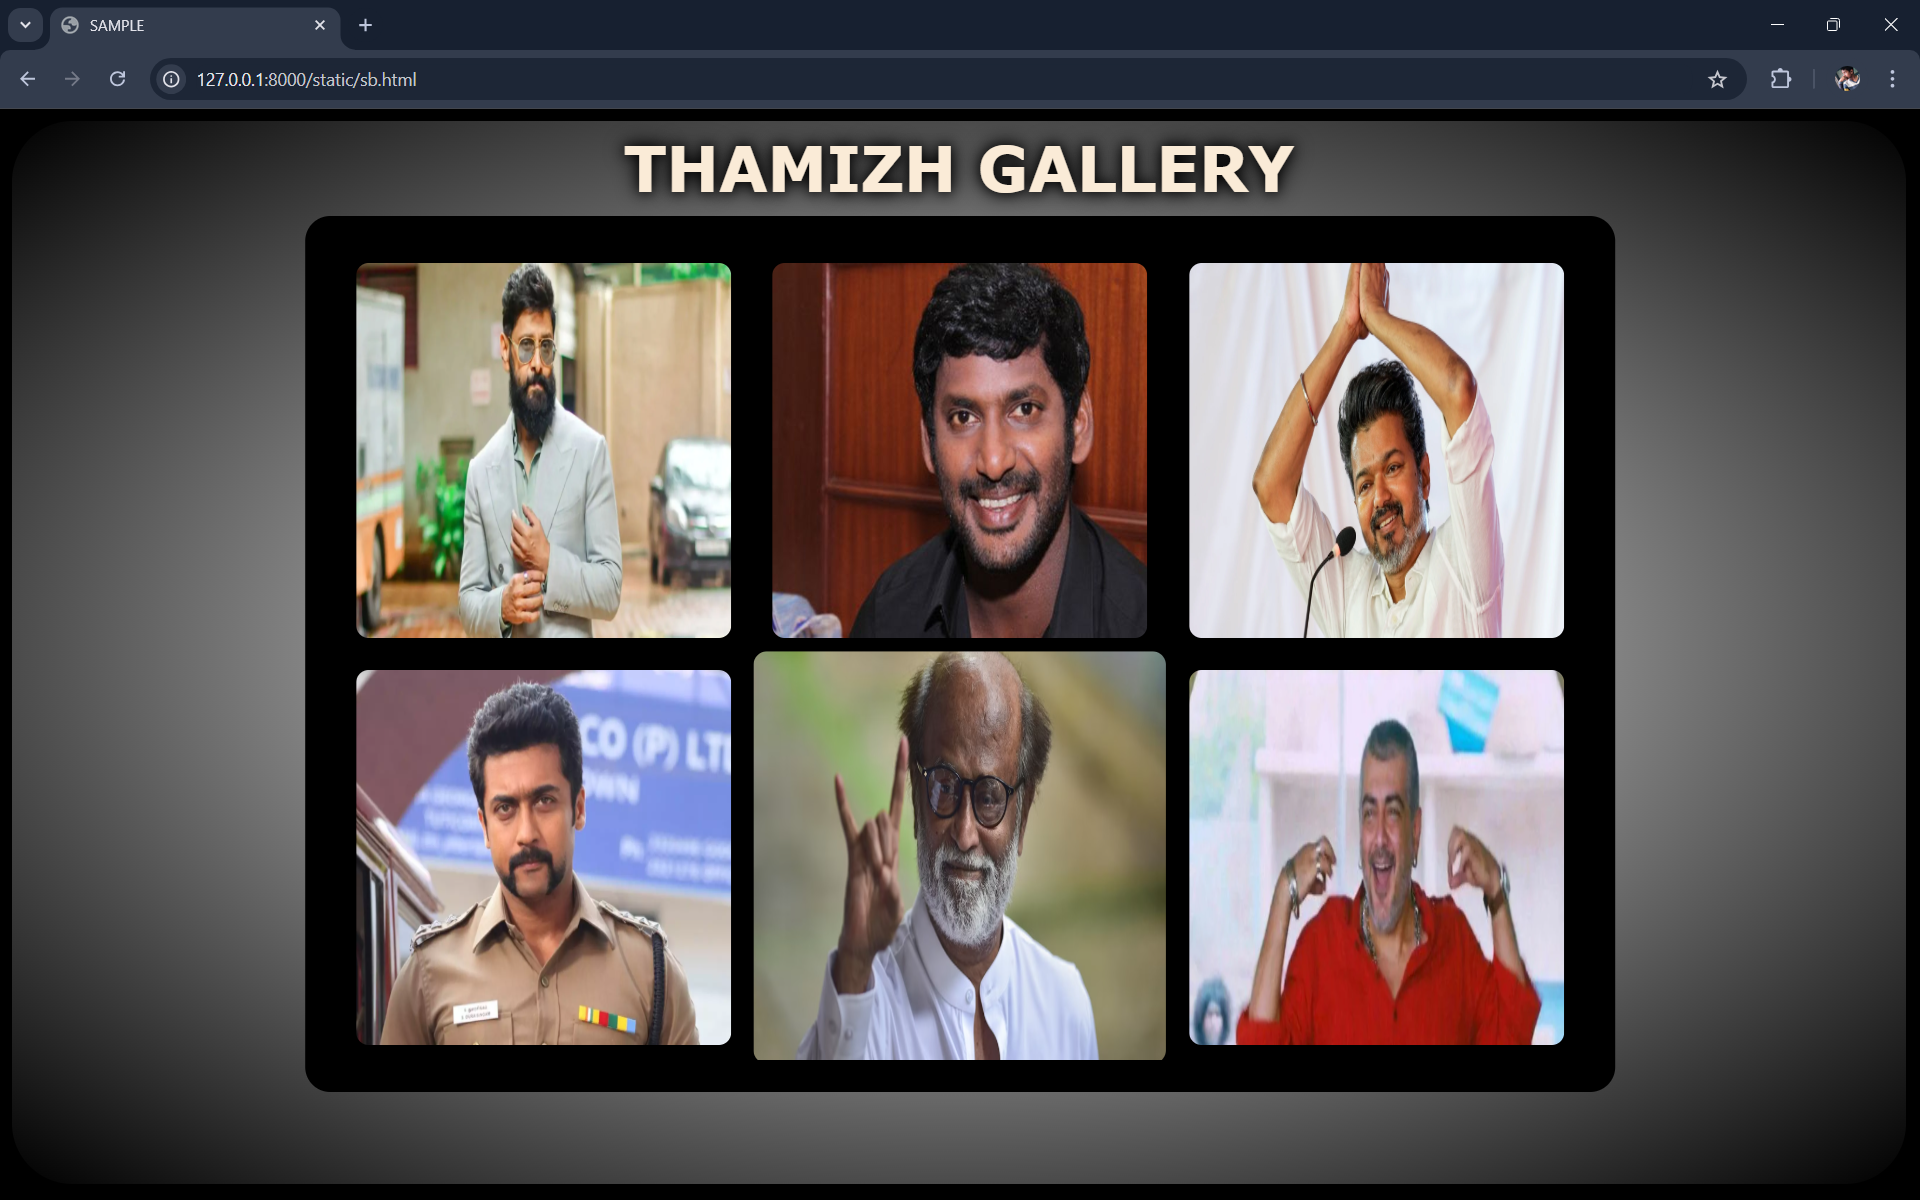
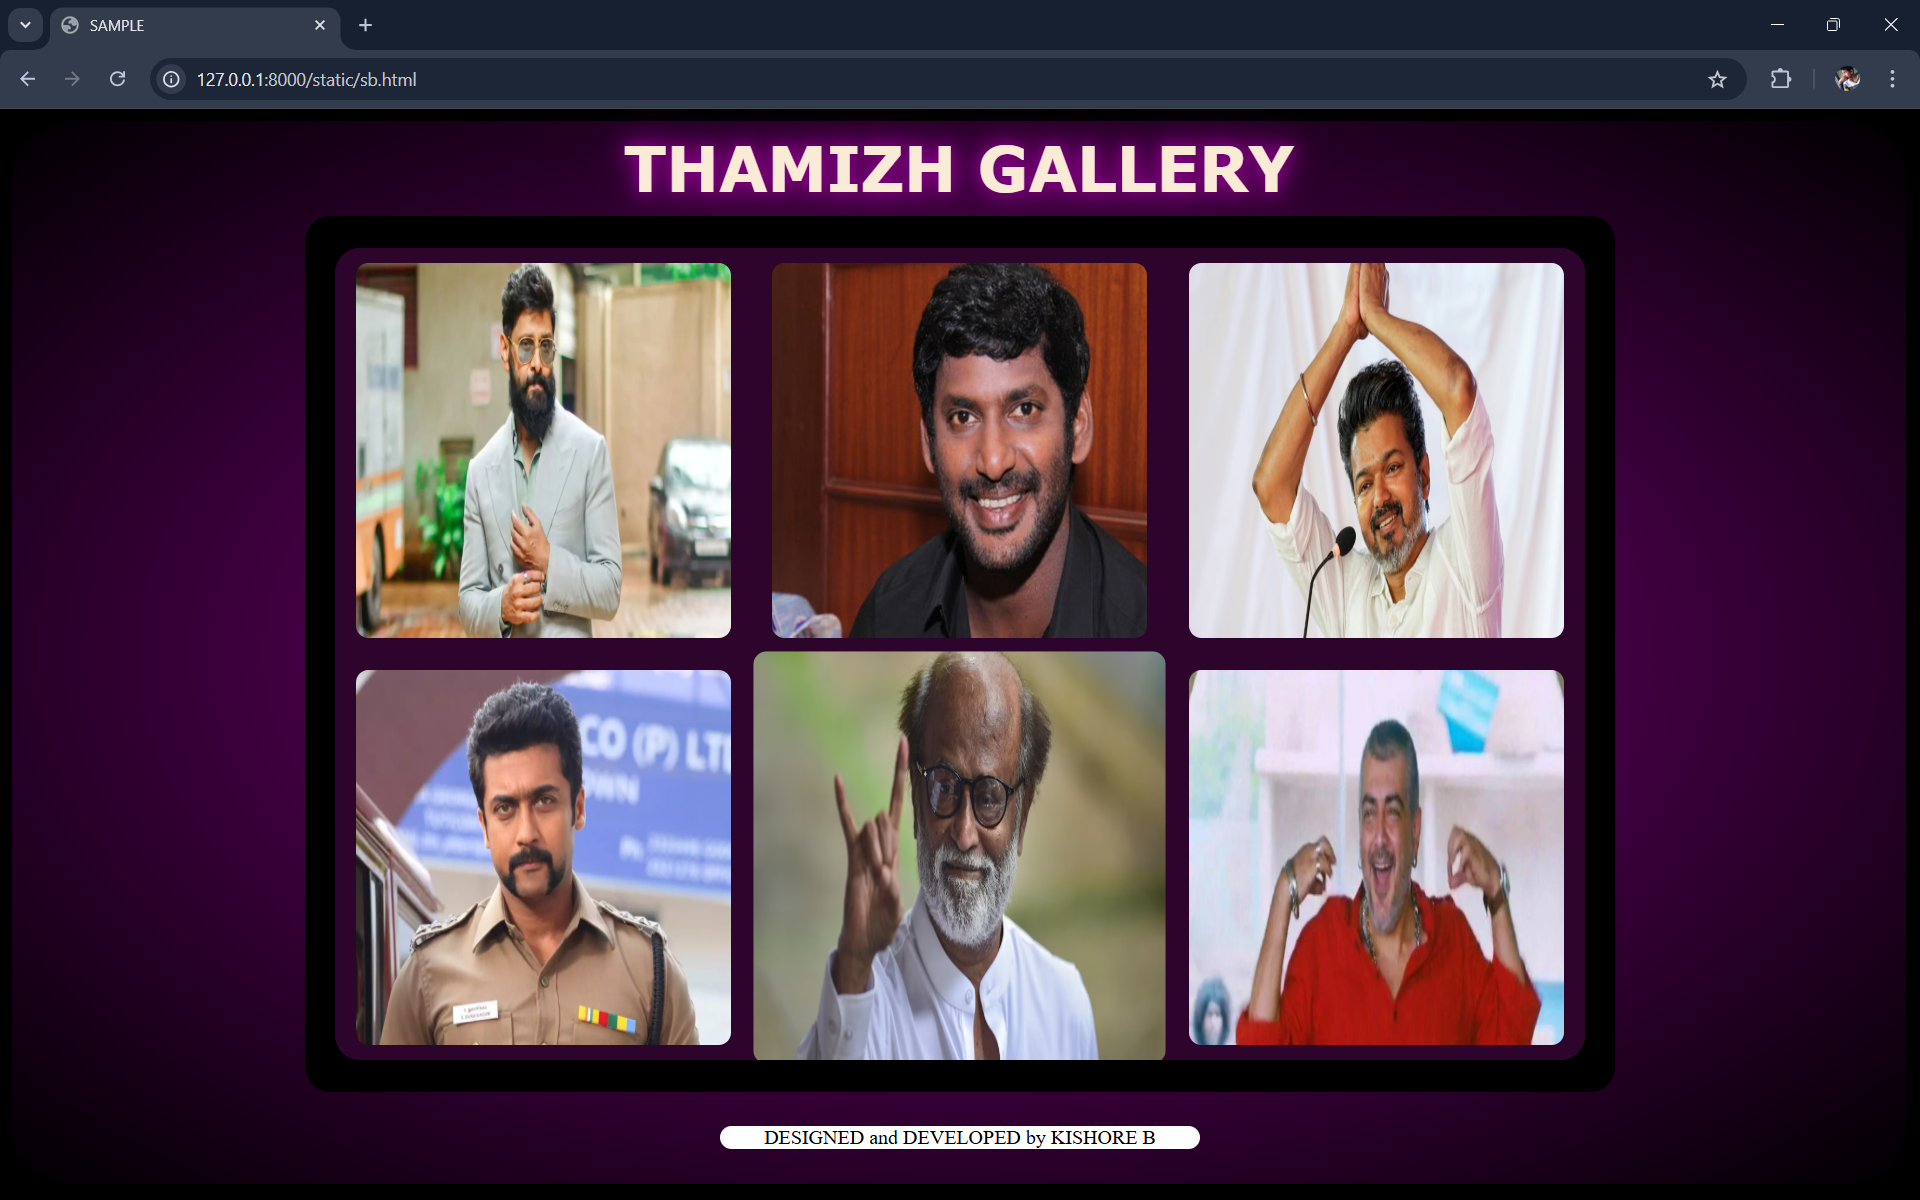
Success

diff --git a/snake/babu/static/sb.html b/snake/babu/static/sb.html
@@ -4,7 +4,7 @@
     <style>
         h1{
             color: antiquewhite;
-            text-shadow: 0 0 10px black, 0 0 20px black;
+            text-shadow: 0 0 10px purple, 0 0 20px purple, 0 0 30px purple;
             position: relative;
             bottom: 27px;
             font-family: Verdana, Geneva, Tahoma, sans-serif;
@@ -14,7 +14,7 @@
             background-color: black;
         }
         body{
-            background: radial-gradient(white,black);
+            background: radial-gradient(purple,black);
             border: 2px solid black;
             border-radius: 50px;
             height: 850px;
@@ -36,6 +36,8 @@
         }
 
         .m1 {
+            border-radius: 20px;
+            background-color: rgb(44, 4, 44);
             margin: 10px;
             height: 650px;
             width: 1000px;
@@ -104,6 +106,15 @@
             visibility: visible; /* Interactable */
             transition: all 1.5s ease, opacity 0.5s ease;  
         }
+        footer{
+            background-color: white;
+            border-radius: 30px;
+            width: 25%;
+            position: absolute;
+            bottom: 40px;
+            left: 50%;
+            translate: -50%;
+        }
     </style>
 </head>
 <title>SAMPLE</title>
@@ -122,6 +133,9 @@
             <img src="" alt="" id="ii">
         </div>
     </div>
+    <footer align="center">
+        DESIGNED and DEVELOPED by KISHORE B
+    </footer>
 
     <script>
         var a=document.getElementById('iii');

diff --git a/README.md b/README.md
@@ -32,7 +32,7 @@ Publish the website in the given URL.
     <style>
         h1{
             color: antiquewhite;
-            text-shadow: 0 0 10px black, 0 0 20px black;
+            text-shadow: 0 0 10px purple, 0 0 20px purple, 0 0 30px purple;
             position: relative;
             bottom: 27px;
             font-family: Verdana, Geneva, Tahoma, sans-serif;
@@ -42,7 +42,7 @@ Publish the website in the given URL.
             background-color: black;
         }
         body{
-            background: radial-gradient(white,black);
+            background: radial-gradient(purple,black);
             border: 2px solid black;
             border-radius: 50px;
             height: 850px;
@@ -64,6 +64,8 @@ Publish the website in the given URL.
         }
 
         .m1 {
+            border-radius: 20px;
+            background-color: rgb(44, 4, 44);
             margin: 10px;
             height: 650px;
             width: 1000px;
@@ -132,6 +134,15 @@ Publish the website in the given URL.
             visibility: visible; /* Interactable */
             transition: all 1.5s ease, opacity 0.5s ease;  
         }
+        footer{
+            background-color: white;
+            border-radius: 30px;
+            width: 25%;
+            position: absolute;
+            bottom: 40px;
+            left: 50%;
+            translate: -50%;
+        }
     </style>
 </head>
 <title>SAMPLE</title>
@@ -150,6 +161,9 @@ Publish the website in the given URL.
             <img src="" alt="" id="ii">
         </div>
     </div>
+    <footer align="center">
+        DESIGNED and DEVELOPED by KISHORE B
+    </footer>
 
     <script>
         var a=document.getElementById('iii');
@@ -169,6 +183,7 @@ Publish the website in the given URL.
     </script>
 </body>
 </html>
+
 ```
 ## OUTPUT:
 
